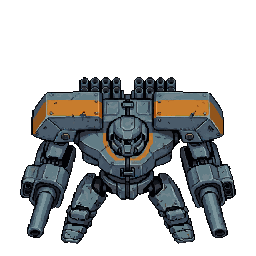
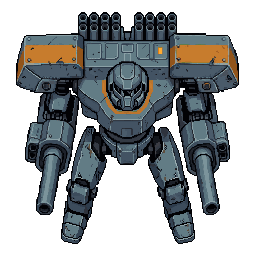
아트: 합체 대기 통과 · 사망 폐기(2차로 되돌림) · 이동 미달 기록

diff --git a/Docs/art_log/make_art_log.py b/Docs/art_log/make_art_log.py
@@ -99,18 +99,26 @@ GROUPS = [
      "is entering from the right; then the recoil presses it DOWN and back to the RIGHT, the whole body "
      "squatting as the lean swings the other way; in the last frames it rises and settles upright into a "
      "neutral ready pose"),
-    ("fusion_Idle", "fff51fa0-9fff-43fe-abbf-254e455ba4ac", ["south", "north", "east"], 4, True, 12,
-     "**3차 · 김 절 제거 · 새 승인본 앵커** (자세 미변화로 반려 — 판정 대기)",
-     "새 합체 승인본 `648b864e` 를 참조로 회전(`4e01d2a6`)한 뒤 뽑았다. **대기 문안에서 「배기구에서 김이 샌다」 "
-     "절을 뺐다**(`260907_W02` 2-1). idling in place with its weight settled, the shoulders rising and falling "
-     "by about one twentieth of the silhouette height, the frame holding steady"),
+    ("fusion_Idle", "693f3dcd-c368-4140-9edf-c61f52af19fc", ["south"], 4, True, 4,
+     "**4차 · 끝 자세 보간** (통과)",
+     "끝 자세를 그림으로 주었다 — 승인본을 세로 94%로 눌러 만든 `sink_target.png` 를 `end_frame_url` 로, "
+     "승인본을 `custom_start_frame_url` 로 준 v3 보간이다. 다섯 칸이 아래로 가라앉고 **왕복 재생이 위로 되돌린다**. "
+     "김 절은 3차에서 이미 빠졌다(`260907_W02` 2-1). "
+     "idling in place, the machine settling down onto its knees a little and then holding, its shoulders and "
+     "head dropping with the body, everything else steady"),
+    ("fusion_Idle", "8f45c770-fb89-4dc9-9bc8-07d487e97f24", ["north"], 4, True, 4,
+     "**4차 · 끝 자세 보간** (통과)",
+     "남면과 같은 방식이며 목표는 북면 회전본을 눌러 만든 `sink_north.png` 다."),
+    ("fusion_Idle", "823164a8-2f4f-4c2b-afc0-30581d57142a", ["east"], 4, True, 4,
+     "**4차 · 끝 자세 보간** (통과)",
+     "남면과 같은 방식이며 목표는 동면 회전본을 눌러 만든 `sink_east.png` 다."),
     ("fusion_Move", "48832b0c-b01f-451c-84b0-febfef3c1c76", ["south", "north", "east"], 6, False, 18,
      "**2차 · 새 승인본 앵커** (자세 미변화로 반려 — 판정 대기)",
      "walking forward with heavy clanking steps, the legs alternating so one foot stays planted while the "
      "other lifts and swings through, the whole frame pressing down on every footfall and the joints "
      "following a beat late, AND BOTH ARMS SWING with the steps, the gun barrels moving forward and back"),
     ("fusion_Death", "fd9d157a-6216-4144-a74d-6a210c42ca7b", ["south"], 8, True, 8,
-     "**2차 · 새 승인본 앵커** (자세 미변화로 반려 — 세로 11px · 로봇 A 는 48px)",
+     "**2차 · 미해결** (자세가 안 바뀐다 — 세로 11px · 로봇 A 는 48px)",
      "the locking clamps release first and the two joined frames start to come apart at the seam, then the "
      "machine sinks down onto the ground and settles, no explosion"),
 ]

diff --git a/Docs/art_log/260907_art_to_plan.md b/Docs/art_log/260907_art_to_plan.md
@@ -336,11 +336,33 @@ A 3차와 같은 `FRAMING` 절 + 6-3 이 적어 둔 2차 처방 둘(`seen from a
 ⓑ **끝 자세를 그림으로 주어 보간한다**(로봇 A 이동을 푼 그 공정 — C 의 판정 대기 항목과 같은 것이라 승인이 먼저다) ·
 ⓒ 이 정도로 두고 넘어간다(20초 등장 · 영상 C 구간의 주역).
 
-### 곁가지 — 리포 raw URL 이 다시 막혔다
+### G. 합체 — ⓑ(끝 자세 보간) 결과 · **대기 통과 · 사망 폐기 · 이동 미달** (2026-09-07)
+
+사용자가 ⓑ를 골랐고, 리포를 다시 공개로 돌려 주어 목표 그림을 URL 로 넘길 수 있었다(비공개면 이 길이 막힌다).
+
+**방법** — 끝 자세를 도구에 그리게 하지 않고 **실루엣만 만들어 목표로 준다.**
+승인본·회전본을 세로로 눌러 만든 그림을 `end_frame_url` 로, 원본을 `custom_start_frame_url` 로 주고 v3 가 사이를 그린다.
+`create_image_pro` 로 「쓰러진 기체」를 그리게 한 시도(`bcafdb68`)는 **실패**했다 — 세로 78.1% 로 여전히 서 있었다.
+
+| 벌 | 결과 | 세로 변화 | 판정 |
+|---|---|---|---|
+| 대기 남·북·동 | 다섯 칸이 가라앉고 왕복 재생이 되돌린다 | 14 · 13 · 15px (2차는 10 · 6 · 6) | **사용자 통과** |
+| 사망 남 | 여덟 칸이 무너진다 (목표 칸은 버려 화면에 안 나간다) | **109px** (2차 11 · 로봇 A 48) | **사용자 폐기** |
+| 이동 남·북·동 | 걷는 자세 보간이 다리를 못 벌렸다 | 20 · 24 · 5px (2차 유지) | 미달 · 미해결 |
+
+**사망은 되돌렸다** — 설치본은 2차(`fd9d157a` · 9칸 · 세로 11px)이고 **여전히 안 무너진다.**
+폐기된 보간판은 `Docs/art_log/candidates/fusion_Death_pose/` 에 남긴다. **왜 폐기됐는지는 사용자 판단이라 적지 않는다** —
+다만 실측으로 말할 수 있는 것은 목표 실루엣이 **세로를 48%로 누른 것**이라 중간 칸들이 「무릎이 꺾인다」보다
+**「납작해진다」에 가깝게 나왔다**는 것이다. 다음 시도는 목표를 누르는 대신 **주저앉은 자세를 그림으로 그려** 주어야 한다.
+
+**이동이 안 된 이유도 실측으로 남긴다** — 합체의 걷는 자세(`stride_L`·`stride_R`)가 좌우 아랫변 차 −1 / +1 이다.
+같은 방법에서 로봇 A 는 −29 / +29 였다. **무릎만 굽고 발이 제자리라** 보간해도 다리가 안 갈린다.
+
+### 곁가지 — 리포 raw URL 이 다시 막혔다 (해소)
 
 `raw.githubusercontent.com` 이 리포 루트까지 404 다(09-07 오후). 참조를 URL 로 넘기는 자리가
 그것에 기대고 있어서, 합체 스틸의 참조는 **PixelLab 이 호스팅하는 승인본 주소**로 걸었다(같은 그림).
-공개/비공개가 다시 바뀌었는지 확인이 필요하다 — 아트 세션은 리포 설정을 건드리지 않는다.
+**2026-09-07 사용자가 다시 공개로 바꾸어 해소됐다.** 그 덕에 ⓑ의 목표 그림을 URL 로 넘길 수 있었다 — 아트 세션은 리포 설정을 건드리지 않는다.
 
 ---
 
